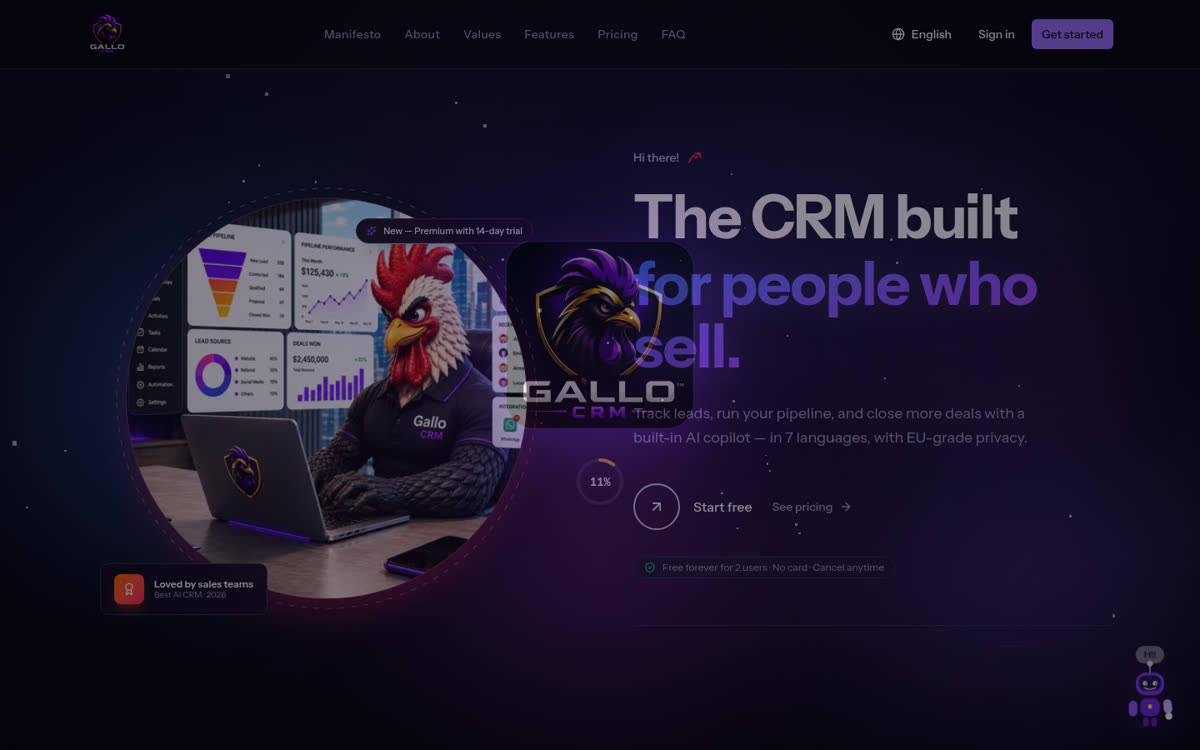
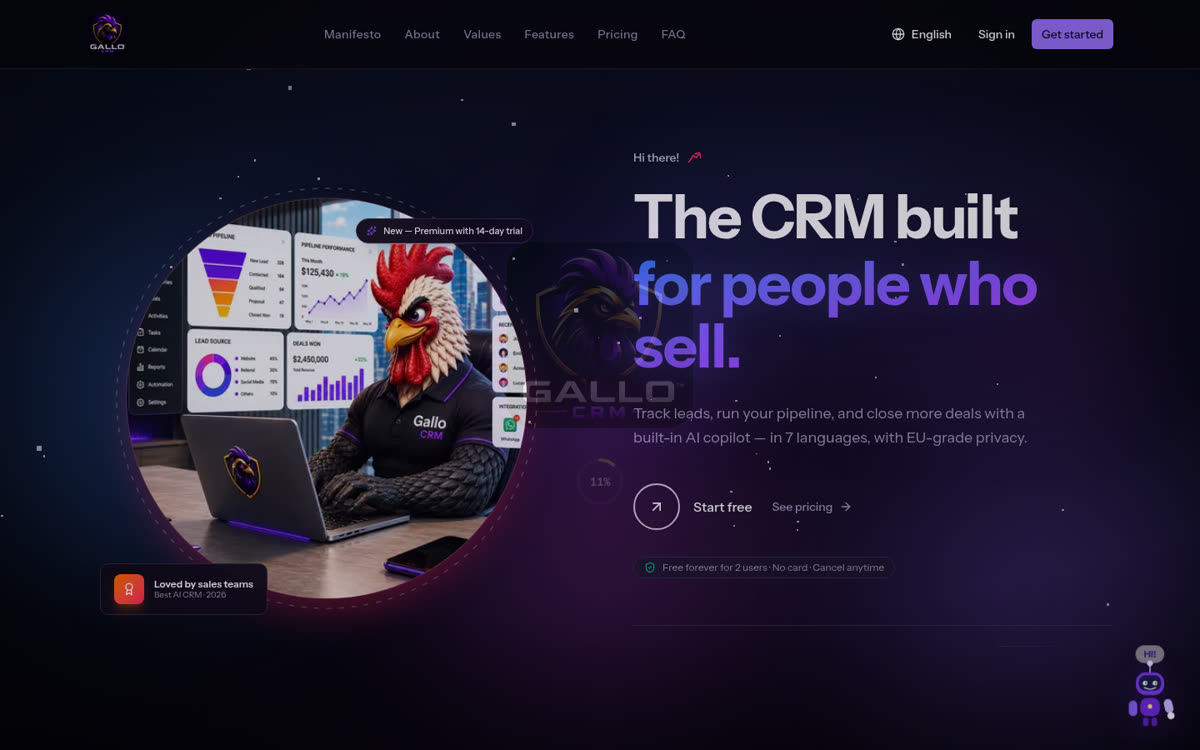
Fix the hero composition, nav button, and product screenshots.
The title stays visible, the call to action fits in the first screen and inside the nav pill, and the case studies use cookie-free captures.

diff --git a/css.css b/css.css
@@ -124,16 +124,11 @@ a { color: inherit; }
 section,
 .case { scroll-margin-top: calc(var(--nav-offset) + var(--nav-bar) + 8px); }
 
-.line { display: block; overflow: hidden; }
+.line { display: block; }
 
-html.js .line > span {
-  display: block;
-  transform: translateY(110%);
-  transition: transform 1s var(--ease);
-}
+.hero-card .line { overflow: visible; }
 
-html.js .is-in .line > span,
-html.js.is-ready .line > span { transform: none; }
+html.js .line > span { display: block; }
 
 .line:nth-child(2) > span { transition-delay: 0.08s; }
 
@@ -200,8 +195,9 @@ html.js.is-ready .line > span { transform: none; }
   align-items: center;
   width: max-content;
   max-width: calc(100vw - 32px);
-  height: 45px;
+  height: auto;
   padding: 5px;
+  align-items: center;
   border-radius: 1000px;
   background: #141414c2;
   -webkit-backdrop-filter: blur(20px) saturate(1.2);
@@ -277,7 +273,7 @@ html.js.is-ready .line > span { transform: none; }
   display: flex;
   align-items: center;
   gap: 8px;
-  padding-right: 4px;
+  padding: 0;
 }
 
 .lang { display: flex; align-items: center; gap: 0.3rem; color: var(--dim); font-size: 0.8rem; }
@@ -295,12 +291,16 @@ html.js.is-ready .line > span { transform: none; }
 .hn-talk {
   display: inline-flex;
   align-items: center;
+  justify-content: center;
+  box-sizing: border-box;
+  height: 35px;
   border-radius: 999px;
   background: var(--accent);
   color: var(--accent-ink);
-  padding: 0.6rem 1.05rem;
+  padding: 0 1rem;
   font-size: 0.92rem;
   font-weight: 600;
+  line-height: 1;
   letter-spacing: -0.01em;
   text-decoration: none;
   white-space: nowrap;
@@ -312,10 +312,11 @@ html.js.is-ready .line > span { transform: none; }
 
 .hn-toggle {
   display: none;
-  height: 40px;
+  box-sizing: border-box;
+  height: 35px;
   align-items: center;
   gap: 0.55rem;
-  padding: 0 0.85rem 0 1rem;
+  padding: 0 0.8rem;
   border: 1px solid rgba(255, 255, 255, 0.2);
   border-radius: 999px;
   background: transparent;
@@ -353,12 +354,17 @@ html.js.is-ready .line > span { transform: none; }
 .hero-card {
   position: relative;
   isolation: isolate;
-  min-height: calc(100svh - 20px);
+  height: calc(100svh - var(--nav-offset) - var(--nav-bar) - var(--nav-offset) - var(--frame));
+  min-height: 0;
   border-radius: var(--r);
   overflow: hidden;
-  display: grid;
-  grid-template-rows: auto 1fr auto;
-  padding: clamp(1.6rem, 4vw, 3rem) clamp(1.25rem, 3.2vw, 3.5rem) clamp(1.25rem, 2vw, 1.8rem);
+  display: flex;
+  flex-direction: column;
+  align-items: center;
+  justify-content: center;
+  text-align: center;
+  gap: 1rem;
+  padding: 1.25rem clamp(1.25rem, 3vw, 2.5rem) 1.4rem;
   background:
     radial-gradient(120% 90% at 50% 45%, transparent 46%, rgba(0, 0, 0, 0.5) 100%),
     radial-gradient(50% 60% at 68% 42%, rgba(150, 149, 150, 0.2), transparent 72%),
@@ -380,13 +386,14 @@ body > .support { position: relative; z-index: 1; }
 .hero-card .stage { z-index: 0; }
 
 .hero-photo {
-  position: absolute;
-  left: 50%;
+  position: relative;
+  left: auto;
   right: auto;
-  top: 50%;
-  width: min(42vh, 32vw);
+  top: auto;
+  width: min(220px, 26vh);
   aspect-ratio: 1;
-  transform: translate(-50%, -48%);
+  transform: none;
+  margin: 0 auto;
   z-index: 2;
   mask-image: radial-gradient(circle at 50% 42%, #000 58%, transparent 78%);
   -webkit-mask-image: radial-gradient(circle at 50% 42%, #000 58%, transparent 78%);
@@ -413,20 +420,22 @@ body > .support { position: relative; z-index: 1; }
 
 .hero-top {
   display: flex;
-  justify-content: space-between;
-  align-items: flex-start;
-  gap: 2rem;
+  flex-direction: column;
+  align-items: center;
+  text-align: center;
+  gap: 0.7rem;
 }
 
-.hero-top .display { max-width: 11ch; }
+.hero-top .display { max-width: 14ch; }
 
 .hero-line {
-  max-width: 18rem;
-  margin: 0.4rem 0 0;
+  max-width: 28rem;
+  margin: 0;
   display: flex;
   flex-direction: column;
-  align-items: flex-end;
-  gap: 0.35rem;
+  align-items: center;
+  text-align: center;
+  gap: 0.3rem;
   font-family: var(--display);
   font-weight: 500;
   letter-spacing: -0.02em;
@@ -435,8 +444,9 @@ body > .support { position: relative; z-index: 1; }
 }
 
 .hero-dock {
-  align-self: end;
+  align-self: center;
   justify-self: center;
+  margin-top: 0.2rem;
   width: max-content;
   max-width: calc(100% - 1rem);
   display: flex;
@@ -1179,34 +1189,21 @@ html.js.is-ready .reveal { opacity: 1; transform: none; }
   .psr { grid-template-columns: 1fr; }
   .metric-row { grid-template-columns: 1fr; gap: 1.2rem; }
   .hero-photo {
-    position: absolute;
+    position: relative;
     left: auto;
-    right: 50%;
-    top: 36%;
-    width: min(88vw, 440px);
-    transform: translate(50%, -50%);
-    margin: 0;
-    z-index: 0;
-    border-radius: 0;
-    mask-image: radial-gradient(circle at 50% 42%, #000 54%, transparent 76%);
-    -webkit-mask-image: radial-gradient(circle at 50% 42%, #000 54%, transparent 76%);
-  }
-  .hero-photo img {
-    position: static;
-    width: 100%;
-    height: 100%;
-    border-radius: 0;
+    right: auto;
+    top: auto;
+    width: min(200px, 32vh);
     transform: none;
+    margin: 0 auto;
   }
   .hero-card {
-    display: flex;
-    flex-direction: column;
-    justify-content: flex-start;
-    min-height: calc(100svh - 20px);
-    padding-top: clamp(1.4rem, 4vw, 2rem);
+    height: auto;
+    min-height: calc(100svh - var(--nav-offset) - var(--nav-bar) - var(--nav-offset) - 16px);
+    justify-content: center;
+    padding-bottom: 5.5rem;
   }
-  .hero-top { margin-top: 26vh; }
-  .hero-dock { margin-top: auto; margin-bottom: 4.75rem; }
+  .hero-top { margin-top: 0; }
   .hero-card::after {
     background: linear-gradient(180deg, rgba(18, 18, 18, 0.1) 20%, rgba(18, 18, 18, 0.78) 68%);
   }
@@ -1230,8 +1227,13 @@ html.js.is-ready .reveal { opacity: 1; transform: none; }
     grid-template-columns: 1fr auto;
     transition: none;
   }
-  .hn-talk { display: none; }
-  .hn-toggle { display: inline-flex; }
+  .hn-talk {
+    display: inline-flex;
+    height: 35px;
+    padding: 0 0.75rem;
+    font-size: 0.82rem;
+  }
+  .hn-toggle { display: inline-flex; height: 35px; }
   .hn-links {
     position: absolute;
     top: calc(100% + 8px);

diff --git a/js/main.js b/js/main.js
@@ -637,65 +637,51 @@ function bootPortrait() {
   load("https://cdn.jsdelivr.net/npm/gsap@3.12.5/dist/gsap.min.js")
     .then(() => load("https://cdn.jsdelivr.net/npm/gsap@3.12.5/dist/ScrollTrigger.min.js"))
     .then(() => {
-      const photo = document.querySelector(".hero-photo");
-      if (!photo || !window.gsap) return;
+      if (!window.gsap) return;
       const gsap = window.gsap;
       gsap.registerPlugin(window.ScrollTrigger);
       document.documentElement.classList.add("motion");
-      const lines = document.querySelectorAll(".line > span");
-      if (params.has("reveal")) {
-        gsap.set(lines, { yPercent: 0 });
-      } else {
-        gsap.set(lines, { yPercent: 110 });
-        gsap.to("#top .line > span", {
-          yPercent: 0,
-          duration: 1.05,
-          ease: "power3.out",
+      const photo = document.querySelector(".hero-photo");
+      const reveal = params.has("reveal");
+      const show = (targets) => gsap.set(targets, { autoAlpha: 1, y: 0, yPercent: 0, scale: 1, clearProps: "opacity,visibility" });
+      if (!reveal) {
+        gsap.from("#top .hero-photo, #top .display, #top .hero-line, #top .hero-dock", {
+          autoAlpha: 0,
+          y: 18,
+          duration: 0.9,
           stagger: 0.08,
-          delay: 0.08
+          ease: "power3.out",
+          overwrite: "auto"
         });
-        gsap.utils.toArray(".display").forEach((heading) => {
+        document.querySelectorAll(".display").forEach((heading) => {
           if (heading.closest("#top")) return;
-          gsap.to(heading.querySelectorAll(".line > span"), {
-            yPercent: 0,
-            duration: 1,
-            ease: "power3.out",
-            stagger: 0.07,
-            scrollTrigger: { trigger: heading, start: "top 86%" }
-          });
-        });
-        gsap.utils.toArray(".mini, .metric-row").forEach((block) => {
-          gsap.from(block, {
+          const rect = heading.getBoundingClientRect();
+          if (rect.top < window.innerHeight * 0.92) return;
+          gsap.from(heading, {
             autoAlpha: 0,
-            y: 28,
+            y: 20,
             duration: 0.8,
             ease: "power3.out",
-            scrollTrigger: { trigger: block, start: "top 90%" }
+            immediateRender: false,
+            scrollTrigger: { trigger: heading, start: "top 90%", once: true }
           });
         });
       }
-      if (!photo || !window.matchMedia("(min-width: 981px)").matches) return;
-      gsap.set(photo, { xPercent: -50, yPercent: -48, force3D: true });
-      if (!params.has("reveal")) {
-        gsap.from(photo, {
-          autoAlpha: 0,
-          scale: 0.94,
-          yPercent: -40,
-          duration: 1.35,
-          ease: "power3.out",
-          delay: 0.1
+      if (photo && window.matchMedia("(min-width: 981px)").matches) {
+        gsap.to(photo, {
+          y: -24,
+          ease: "none",
+          scrollTrigger: {
+            trigger: "#top",
+            start: "top top",
+            end: "bottom top",
+            scrub: 0.6
+          }
         });
       }
-      gsap.to(photo, {
-        yPercent: -58,
-        ease: "none",
-        scrollTrigger: {
-          trigger: "#top",
-          start: "top top",
-          end: "bottom top",
-          scrub: 0.6
-        }
-      });
+      window.setTimeout(() => {
+        show("#top .hero-photo, #top .display, #top .hero-line, #top .hero-dock, .line > span");
+      }, 1600);
     });
 }
 
